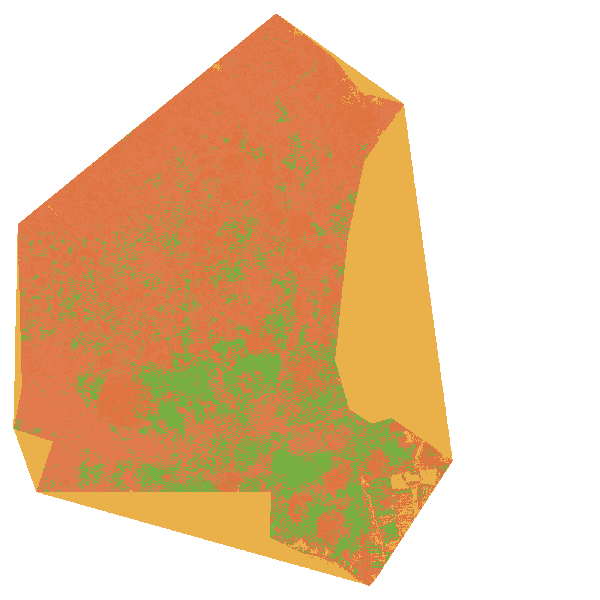
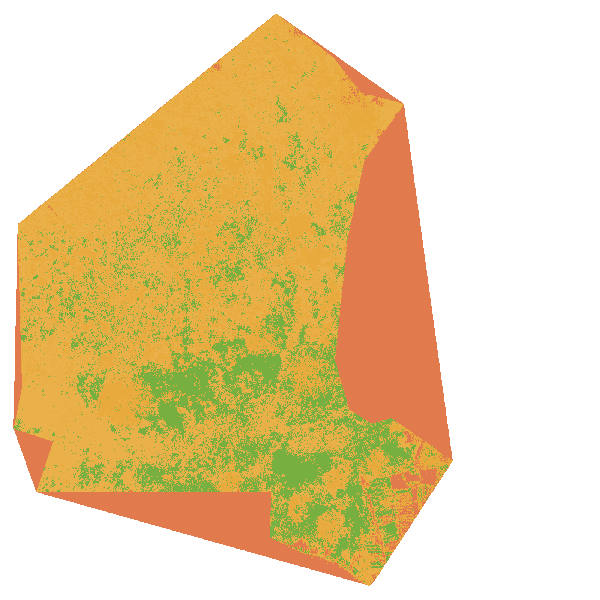
v14: fix couleurs PNG

diff --git a/sw.js b/sw.js
@@ -1,4 +1,4 @@
-const CACHE='agrivision-production-v13';
+const CACHE='agrivision-production-v14';
 const CORE=[
   './','./index.html','./analyse.html','./resultats.html','./actions.html','./qualite.html','./historique.html','./ia.html','./rapport.html','./apropos.html','./equipe.html','./offline.html',
   './css/style.css','./css/finale.css',
